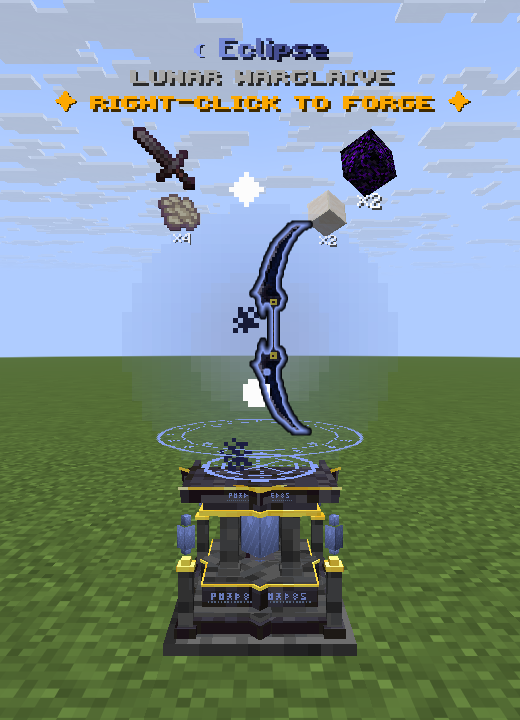
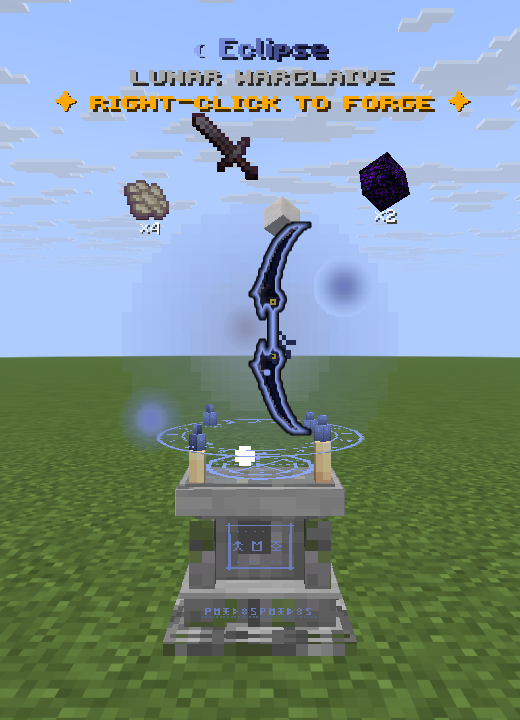
Warcry's spectral axe strikes, README and images for Customs
- Warcry: the giant spectral axe rises at your side and its strike
  now deals damage and knocks enemies up where it lands.
- README describes the rename and how to upgrade from OP Swords, the
  stone altar and the new effects, with new screenshots.

Claude-Session: https://claude.ai/code/session_01N6Pm2zMoGheBLvkAT1Z5F3

Changed region(s): [[0.0, 0.0, 1.0, 0.9167]]

diff --git a/src/main/java/dev/infuse/customs/ability/impl/AxeWeapon.java b/src/main/java/dev/infuse/customs/ability/impl/AxeWeapon.java
@@ -130,7 +130,8 @@ public final class AxeWeapon extends SwordAbility {
         Vector forward = center.getDirection().setY(0).lengthSquared() < 1.0E-4 ? new Vector(0, 0, 1)
                 : center.getDirection().setY(0).normalize();
         // a giant spectral axe rises behind you and comes down on the ground ahead
-        Location axeAt = center.clone().subtract(forward.clone().multiply(0.6)).add(0, 3.2, 0);
+        Vector right = new Vector(-forward.getZ(), 0, forward.getX());
+        Location axeAt = center.clone().add(right.clone().multiply(1.6)).add(forward.clone().multiply(1.2)).add(0, 3.0, 0);
         axeAt.setYaw(0);
         axeAt.setPitch(0);
         org.bukkit.entity.ItemDisplay axe = displays().item(axeAt, plugin.items().create(type), 4.5f,
@@ -138,13 +139,14 @@ public final class AxeWeapon extends SwordAbility {
         axe.setGlowing(true);
         axe.setGlowColorOverride(org.bukkit.Color.fromRGB(0xFF3A5A));
         float yaw = (float) Math.atan2(-forward.getX(), forward.getZ());
-        org.joml.Quaternionf raised = new org.joml.Quaternionf().rotateY(-yaw).rotateX(-0.9f);
-        org.joml.Quaternionf struck = new org.joml.Quaternionf().rotateY(-yaw).rotateX(1.7f);
+        // the model stands blade-up; turn it so the bit faces forward, raise it back, then swing it down
+        org.joml.Quaternionf raised = new org.joml.Quaternionf().rotateY(-yaw + (float) (Math.PI / 2)).rotateZ(0.5f);
+        org.joml.Quaternionf struck = new org.joml.Quaternionf().rotateY(-yaw + (float) (Math.PI / 2)).rotateZ(-1.9f);
         axe.setTransformation(new org.bukkit.util.Transformation(new org.joml.Vector3f(), raised, new org.joml.Vector3f(4.5f),
                 new org.joml.Quaternionf()));
         displays().later(5, () -> dev.infuse.customs.ability.Displays.animate(axe, new org.bukkit.util.Transformation(
-                new org.joml.Vector3f(0, -1.0f, 0), struck, new org.joml.Vector3f(4.5f), new org.joml.Quaternionf()), 4));
-        Location strike = Combat.ground(center.clone().add(forward.clone().multiply(3.2)).add(0, 1.5, 0));
+                new org.joml.Vector3f(0, -1.4f, 0), struck, new org.joml.Vector3f(4.5f), new org.joml.Quaternionf()), 4));
+        Location strike = Combat.ground(center.clone().add(forward.clone().multiply(3.6)).add(right.clone().multiply(1.0)).add(0, 1.5, 0));
         displays().later(9, () -> {
             fx().crack(strike, 0xFF4A6A, 6f, 50);
             fx().shockwave(strike, 0xC77DFF, 8f, 9);
@@ -156,6 +158,12 @@ public final class AxeWeapon extends SwordAbility {
             }
             Fx.sound(strike, Sound.ENTITY_GENERIC_EXPLODE, 1.2f, 0.7f);
             Fx.sound(strike, Sound.BLOCK_ANVIL_LAND, 1f, 0.5f);
+            if (alive(player)) {
+                for (LivingEntity target : combat().nearby(player, strike.clone().add(0, 0.5, 0), 3.2)) {
+                    combat().damage(player, target, 7, true);
+                    Combat.setVelocity(target, target.getVelocity().setY(0.7));
+                }
+            }
         });
         displays().later(20, () -> displays().remove(axe));
         applyEffect(player, PotionEffectType.STRENGTH, 160, 1);

diff --git a/src/main/java/dev/infuse/customs/sword/SwordType.java b/src/main/java/dev/infuse/customs/sword/SwordType.java
@@ -153,7 +153,7 @@ public enum SwordType {
             new AbilityInfo("Bloodlust", "Up to +50% melee damage the lower your health. Disables shields like any axe."),
             new AbilityInfo("Cleave", "Every hit also strikes enemies beside the target for 40% of the damage."),
             new AbilityInfo("Whirlwind", "Spin with the axe for 2.5 seconds, carving through everything around you."),
-            new AbilityInfo("Warcry", "A roar that grants you Strength II and Resistance, and weakens and slows enemies.")),
+            new AbilityInfo("Warcry", "A giant spectral axe crashes down ahead. You gain Strength II and Resistance; enemies are weakened and slowed.")),
 
     STAFF("staff", "Arcanum", "Arcane Staff", "⚚", 0xB57EDC, 0xF3D9FF, Material.NETHERITE_SWORD,
             "Grown from a single amethyst that hummed with magic for ten thousand years. It still hums, and now it answers.",

diff --git a/README.md b/README.md
@@ -4,8 +4,13 @@ A Paper **1.21.11** plugin that adds 15 legendary swords and 13 other legendary 
 hammer, a scythe, a spear, a chakram, an axe, a staff, a trident, throwing stars, a halberd, a
 warglaive, a cyber sawblade, a rapier and a khopesh). Each has its own name and lore, a 3D model
 (bundled resource pack), a passive, an on-hit effect and two activated abilities, drawn with
-glowing 3D effects: crescent slashes, shockwaves, beams, spell circles and more. Admins can place **weapon altars**: one-block 3D forges where players craft a weapon
-by bringing its ingredients, no crafting grid needed.
+glowing 3D effects: jagged lightning, ground that cracks and glows, pillars of fire, ice and
+stone spikes, rifts, spectral heads, crescent slashes and more. Admins can place **stone
+altars**: one-block 3D forges where players craft a weapon by bringing its ingredients, no
+crafting grid needed.
+
+Formerly called OP Swords: upgrading keeps your config, altars and every weapon players own
+(see *Install*).
 
 ![The fifteen swords](docs/swords.png)
 
@@ -62,7 +67,7 @@ thrown.
 | ⚰ **Requiem** · Reaper's Scythe | Kills refresh Reap and grant speed | +50% vs targets below 35% health | **Reap** (8s): 220° sweeping arc, heals you per enemy hit | **Final Harvest** (30s): a giant spectral scythe falls on the target, harder the more health it's missing |
 | ♆ **Skypiercer** · Celestial Spear | +1.5 blocks reach | 20%: **Impale** pins the target, +3 damage | **Javelin** (8s): a spectral spear pierces a line of enemies and comes back | **Phalanx** (25s): spears burst from the ground in a line, launching enemies |
 | ☸ **Zephyr** · Wind Chakram | Double jump, no fall damage after it | 20%: **Gust** blasts the target away | **Halo Throw** (5s): the chakram cuts through enemies out and back | **Cyclone** (28s): three chakrams orbit you for 6s, shredding enemies and deflecting arrows |
-| ᛉ **Ragnarök** · Berserker Axe | Up to +50% damage the lower your health | **Cleave**: 40% to enemies beside the target | **Whirlwind** (14s): spin for 2.5s, carving through everything around you | **Warcry** (40s): Strength II and Resistance for you, Weakness and Slowness for enemies |
+| ᛉ **Ragnarök** · Berserker Axe | Up to +50% damage the lower your health | **Cleave**: 40% to enemies beside the target | **Whirlwind** (14s): spin for 2.5s, carving through everything around you | **Warcry** (40s): a giant spectral axe crashes down ahead; Strength II and Resistance for you, Weakness and Slowness for enemies |
 | ⚚ **Arcanum** · Arcane Staff | A 2-heart ward that recharges 12s after it breaks | 25%: **Arcane Spark** leaps to another enemy | **Arcane Missiles** (6s): five homing amethyst missiles | **Crystal Nova** (25s): rings of amethyst burst from the ground around you |
 | ✴ **Nightbloom** · Amethyst Shuriken | Speed I, Jump Boost I | 25%: **Petal Cut** flings a spare star at another enemy | **Star Fan** (6s): five spinning shuriken that each ricochet once | **Thousand Cuts** (26s): flash between up to six enemies, cutting each, then return |
 | ⚜ **Jadewarden** · Jade Halberd | +1 reach, +4 armor | 25%: **Jade Cleave** sweeps everything in front for half damage | **Dragon Sweep** (9s): a full circle of the halberd that hurls everyone back | **Jade Dragon** (32s): a jade serpent winds forward through your enemies, biting and tossing them |
@@ -74,17 +79,23 @@ thrown.
 
 ## Effects
 
-![Moonfall, Tomb of Sands, Jade Dragon and Seismic Slam](docs/effects.jpg)
+![Thunder Strike, Firestorm, Blizzard and Warcry](docs/effects.jpg)
 
-Every hit with an Customs weapon draws a glowing effect in its colour, shaped by the kind of weapon: swords
-slash, scythes and axes cut a wide arc, spears and the rapier thrust a line of light, the hammer
-lands an impact ring and throwing weapons make quick spinning cuts. Every ability unfolds a
-spell circle under the caster, and kills end in a burst of light with the victim's essence rising
+Every hit with a Customs weapon draws a glowing effect in its colour, shaped by the kind of
+weapon: swords slash, scythes and axes cut a wide arc, spears and the rapier thrust a line of
+light, the hammer lands an impact ring and throwing weapons make quick spinning cuts; critical
+hits cut twice. Using an ability shows the weapon's element: flames, frost, sparks, splashes,
+leaves, runes, shadow, blood or a sweep of wind. Kills end in a burst of light with the victim's essence rising
 out of it, plus a finish that fits the weapon (ice shattering, a sunbeam, a sand burst, souls
 scattering, a lightning bolt...). The abilities themselves use
-3D effects drawn with display entities and a set of effect models in the resource pack:
-shockwave rings that sweep across the ground, beams, star bursts, flying crescents, a falling
-moon, a jade serpent and sandstone tombs. They fade out smoothly, never touch the world, and a
+3D effects drawn with display entities and a set of effect models in the resource pack, and
+each has its own signature: Thunder Strike is a forked bolt that scorches the ground, Firestorm
+sends rings of fire pillars outward, Blizzard opens with a spiral of ice spikes, Dragon Breath
+pours from a spectral dragon head, Seismic Slam cracks the earth and raises stone spikes,
+Gravity Pulse lifts enemies in violet columns, the Wail sends screaming skulls spiralling out,
+drains snake to you as tendrils, Void Step and Shadow Strike open rifts, Stasis Field turns the
+hands of a giant clock, Singularity spins an accretion disk, Supernova swells into a sun,
+Warcry brings a giant spectral axe down on the ground, and Moonfall drops a crescent moon. They fade out smoothly, never touch the world, and a
 glow or burst on yourself is hidden from you so it never fills your screen (others still see it).
 
 Ability damage is credited to the player, so kills, mob aggro, world PvP settings and
@@ -126,14 +137,14 @@ saved with the world.
 
 </details>
 
-## Weapon altars
+## Stone altars
 
-![A weapon altar forging Eclipse: the warglaive floats in a soft light over a spinning magic circle, its recipe circling above it](docs/altars.png)
+![A stone altar forging Eclipse: the warglaive floats in a soft light over the altar, its recipe circling above it](docs/altars.png)
 
-A weapon altar is a single block with its own 3D model: an eight-pointed stepped plinth of
-blackstone and deepslate trimmed with gold, four pillars around a tall glowing crystal core,
-bands of glyphs, crystals floating over corner obelisks and a magic circle spinning on top, all
-in the colour of the weapon it holds. The weapon
+A weapon altar is a single block with its own 3D model: a weathered stone altar of mossy and
+cracked stone bricks, buttresses holding a heavy slab of smooth stone, runes carved into its
+pillar and candles on the slab, the runes and candle flames glowing in the colour of the weapon
+it holds. The weapon
 floats above it (swords point-down, the other weapons head-up), with **its recipe circling above
 it** and a nameplate.
 
@@ -164,6 +175,13 @@ players had on their own altars are given back to them, and those altars keep fo
 
 Upgrading: new weapons and settings are added to your existing `config.yml`
 automatically, and old Inferno/Emerald swords turn into Cinderwing/Elderbloom when next held.
+
+**Upgrading from OP Swords:** delete the old `OPSwords-*.jar` and drop in `Customs-*.jar`. On
+first start `plugins/OPSwords` is moved to `plugins/Customs` (config, altars and legendary-mode
+records included). Weapons and altar items made before the rename keep working and update to
+the new look when held, when their owner joins, or when the chest holding them is opened. The
+command is now `/customs` and permissions are `customs.*` instead of `opswords.*`, so update
+any permission plugin entries.
 
 <img src="docs/inventory.png" alt="Swords in the inventory" width="400">
 
